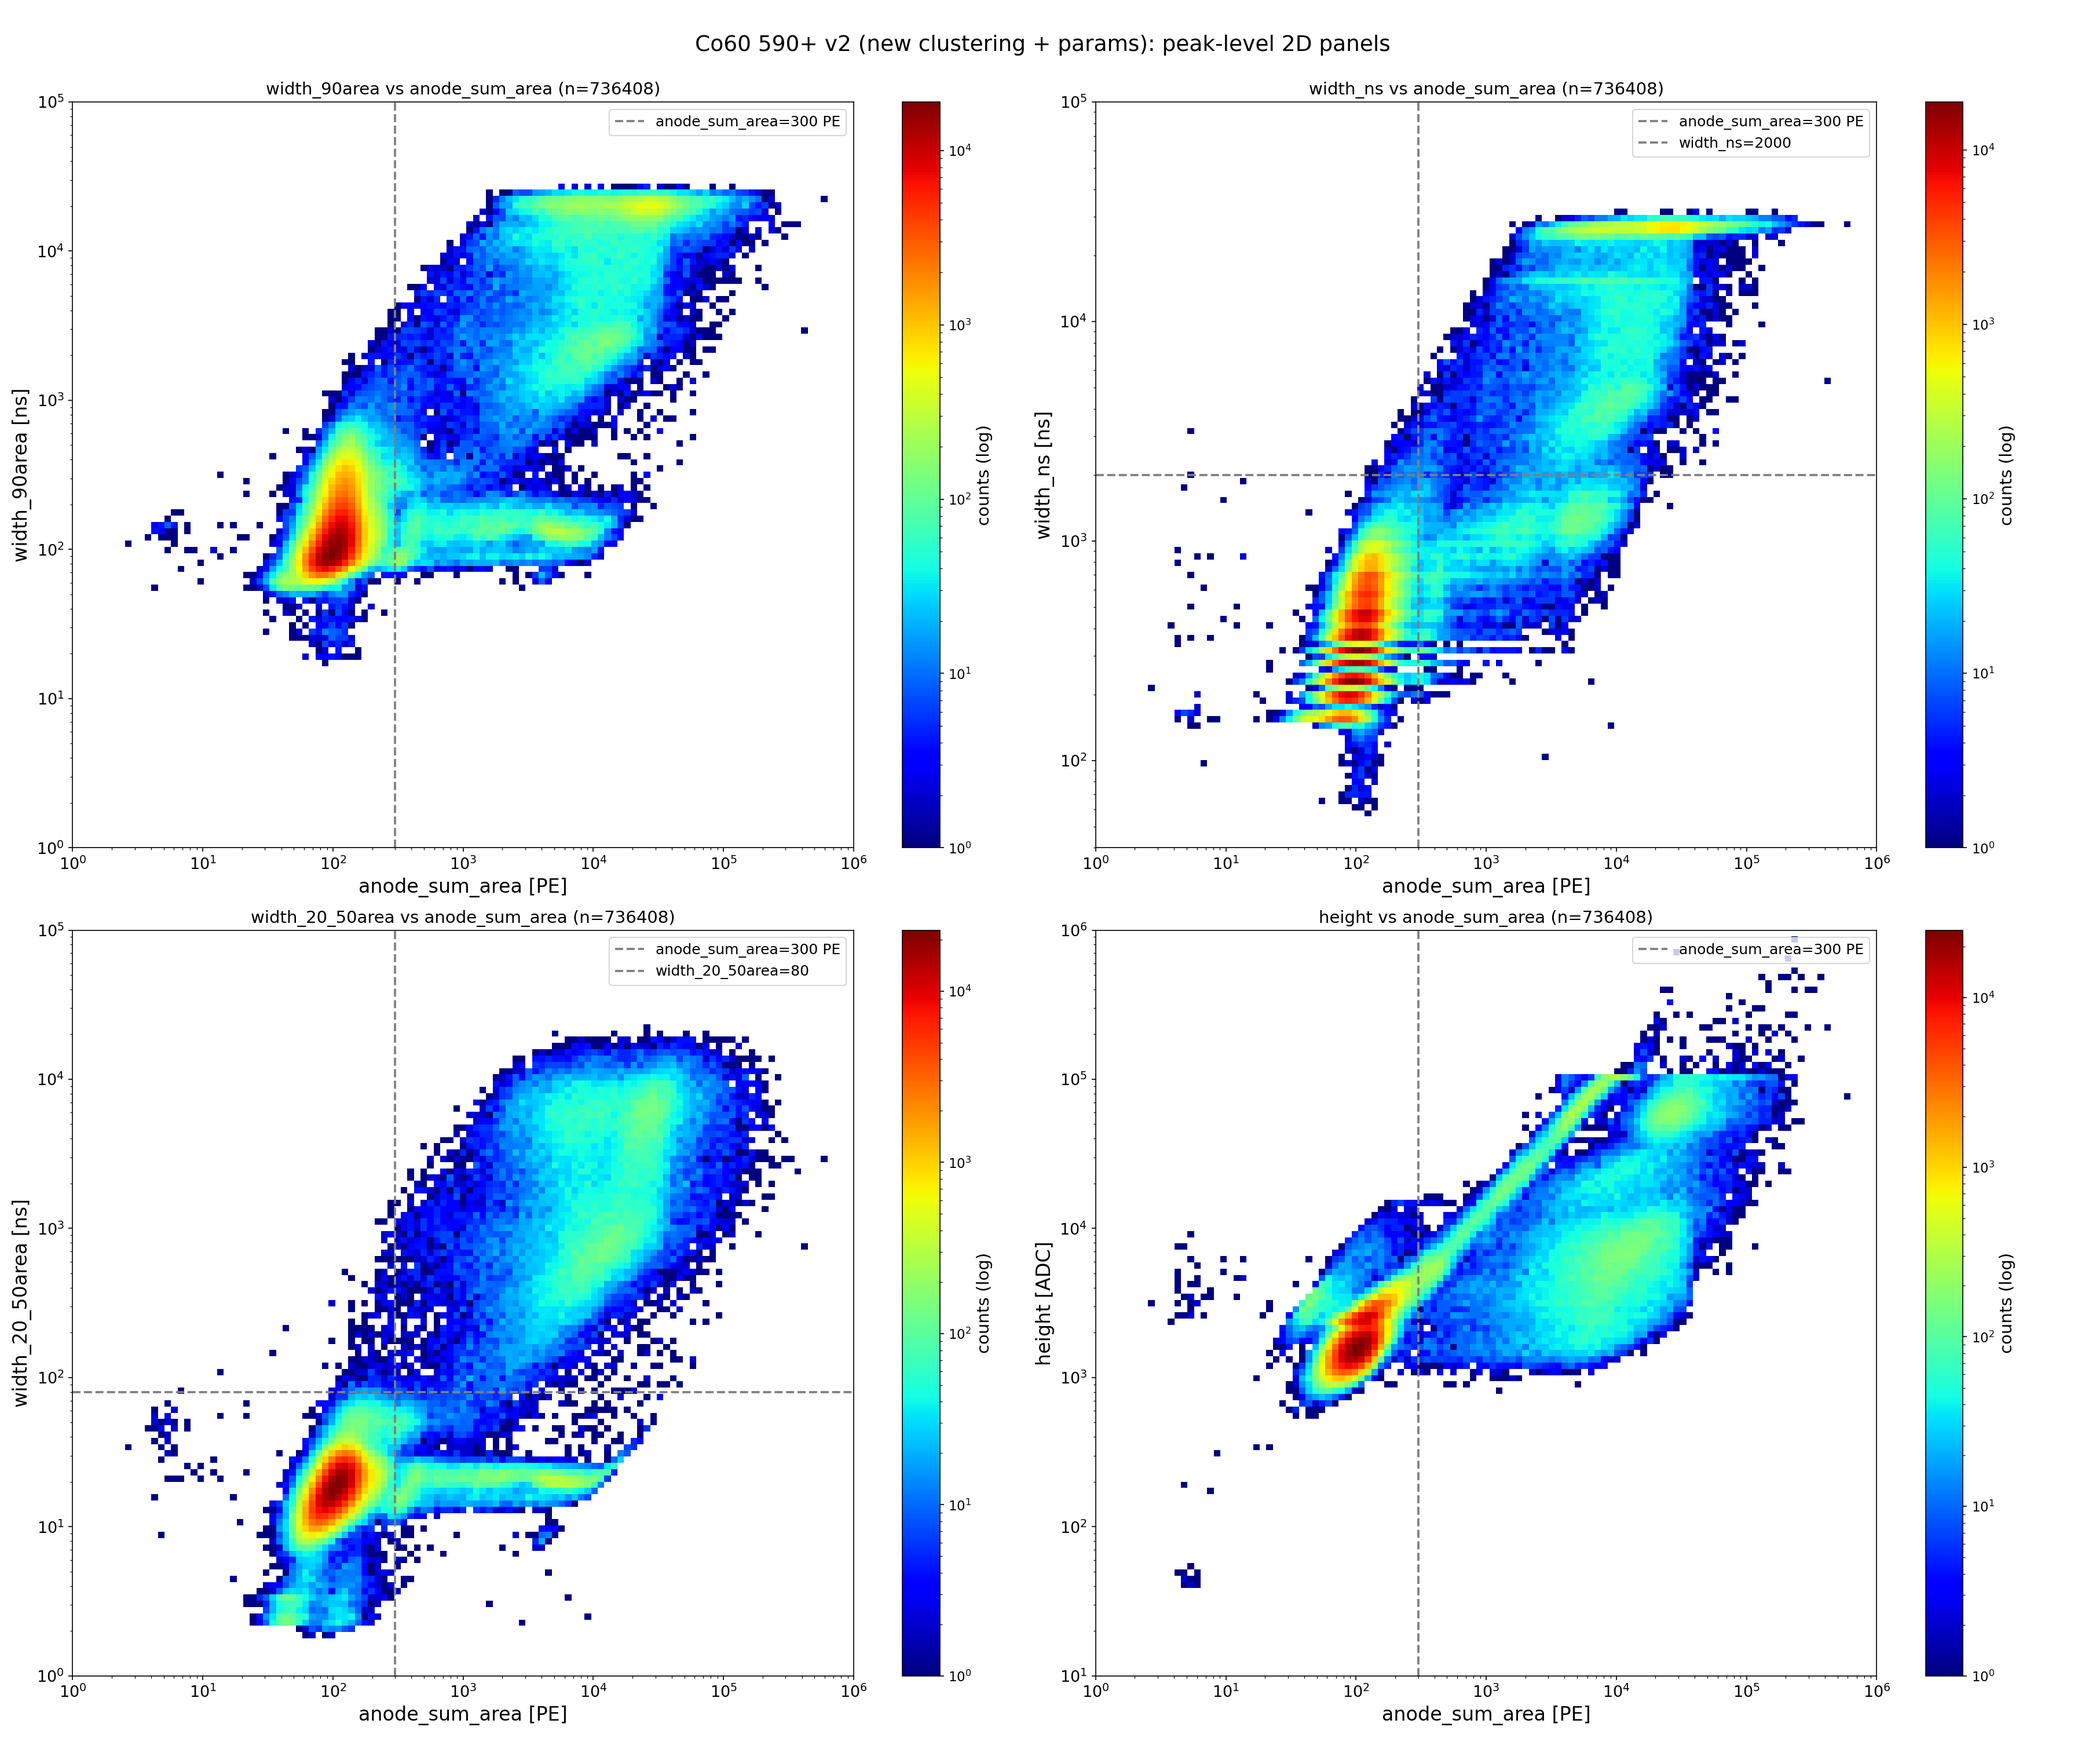
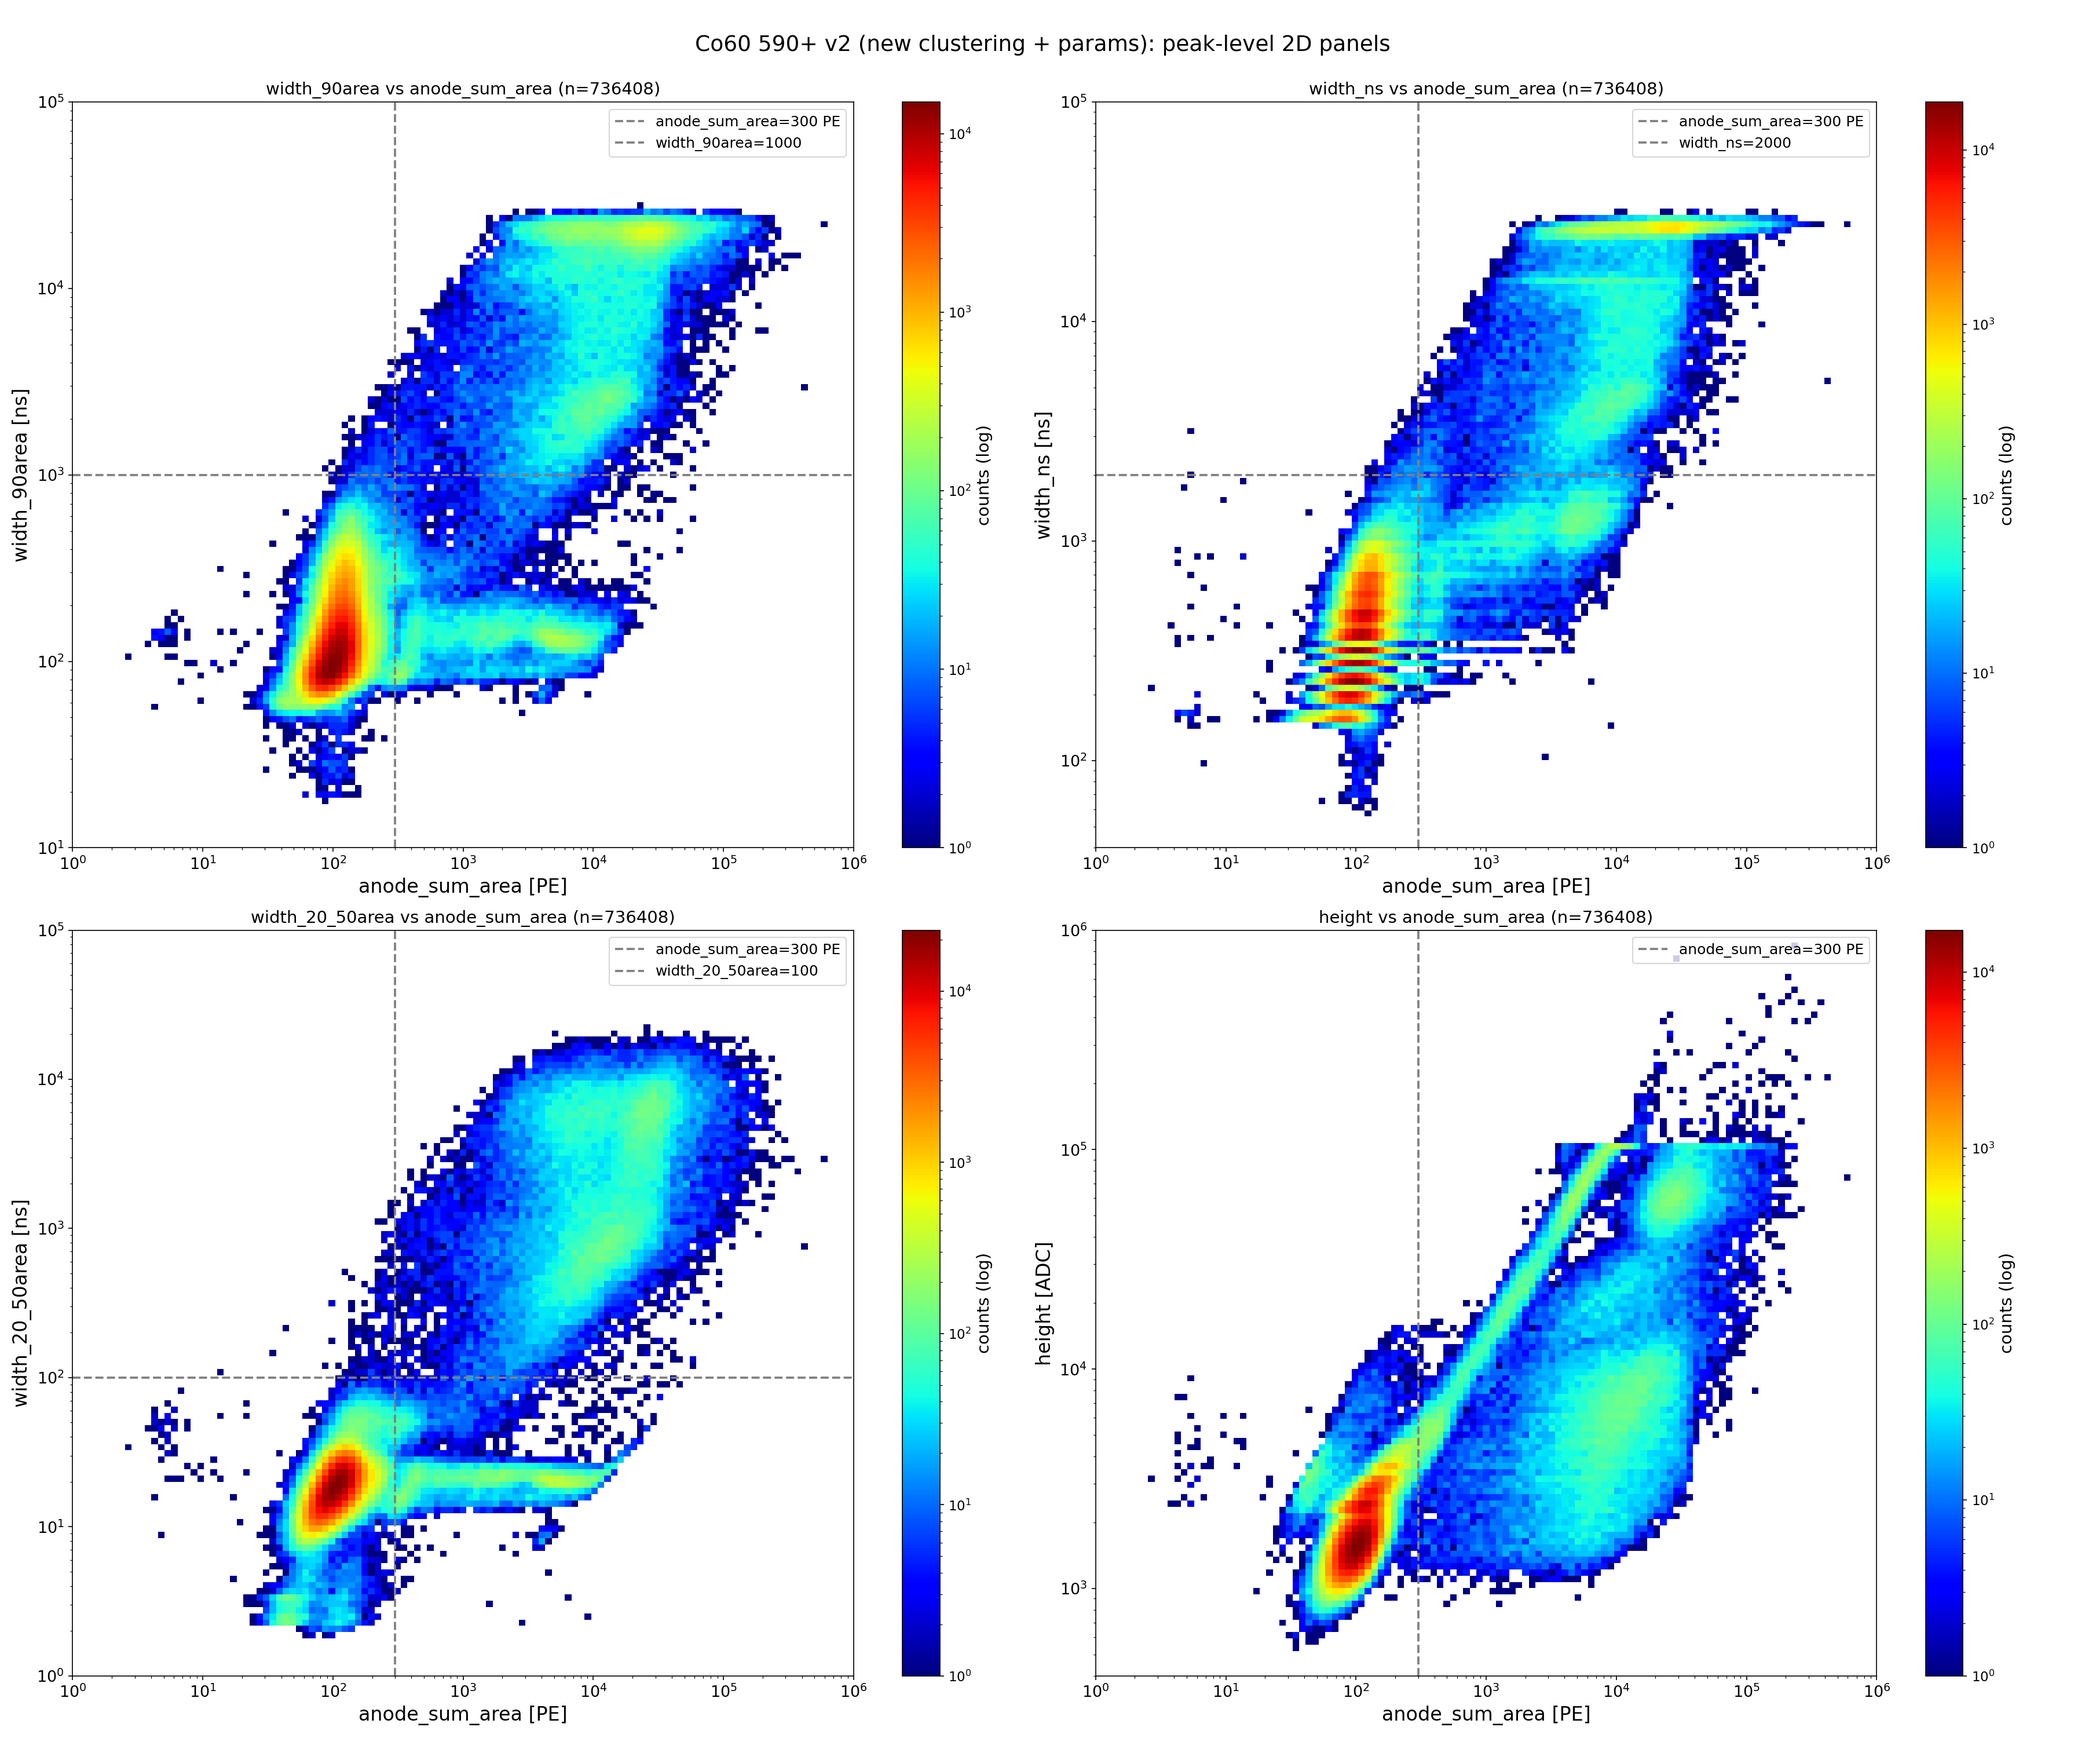
2D panels: width_90area y-min 10ns + guide 1000ns; w2050area guide 100ns; height y-min 400 ADC

diff --git a/scripts/plot_v2_2d_panels.py b/scripts/plot_v2_2d_panels.py
@@ -15,10 +15,10 @@ OUT = "/home/yjj/MuonDAS/docs/figures/co60_590_v2_2d_panels.png"
 
 df = pd.read_csv(CSV)
 panels = [
-    ("width_90area", "width_90area [ns]", (1.0, 1e5), None),
+    ("width_90area", "width_90area [ns]", (10.0, 1e5), 1000.0),
     ("width_ns", "width_ns [ns]", (40.0, 1e5), 2000.0),
-    ("width_20_50area", "width_20_50area [ns]", (1.0, 1e5), 80.0),
-    ("height", "height [ADC]", (1e1, 1e6), None),
+    ("width_20_50area", "width_20_50area [ns]", (1.0, 1e5), 100.0),
+    ("height", "height [ADC]", (400.0, 1e6), None),
 ]
 
 fig, axes = plt.subplots(2, 2, figsize=(24, 20))
